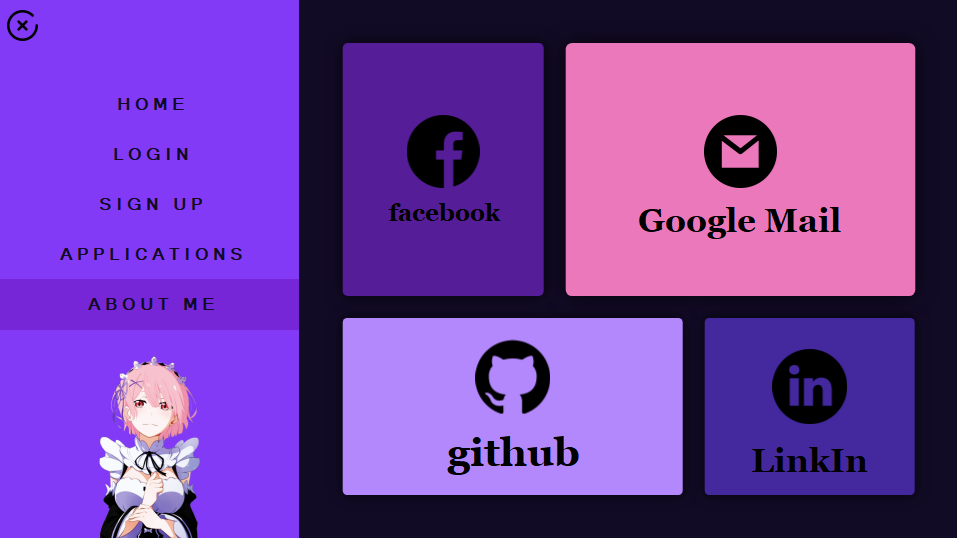
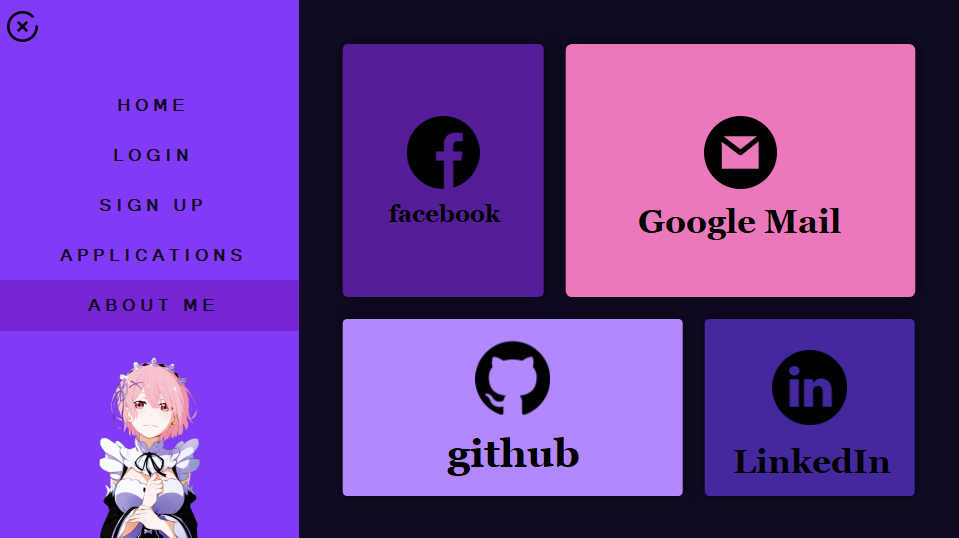
correct spelling mistakes

diff --git a/src/Control/About.py b/src/Control/About.py
@@ -27,7 +27,7 @@ class AboutMe:
         self.gmail = Button(Frame_about,height = 1,relief="flat",cursor="hand2",borderwidth=0, bg = "#eb78bb", text = "Google Mail", activebackground="#eb78bb", font = ("Georgia", 25, "bold"))
         self.gmail.place(x = 325, y = 190)
 
-        self.LinkIn = Button(Frame_about,height = 1,relief="flat",cursor="hand2",borderwidth=0,command=contactLinkIn, bg = "#43289e", text = "LinkIn", activebackground="#43289e", font = ("Georgia", 25, "bold"))
-        self.LinkIn.place(x = 438, y = 430)
+        self.LinkIn = Button(Frame_about,height = 1,relief="flat",cursor="hand2",borderwidth=0,command=contactLinkIn, bg = "#43289e", text = "LinkedIn", activebackground="#43289e", font = ("Georgia", 25, "bold"))
+        self.LinkIn.place(x = 420, y = 430)
 
         

diff --git a/README.md b/README.md
@@ -109,7 +109,7 @@
 
 6. About me 
 
-    ![aboutme](https://user-images.githubusercontent.com/86739367/132989355-32ad861a-9d7d-4acc-88d1-2fb3f3ad9eaa.png)
+    ![aboutme](https://user-images.githubusercontent.com/86739367/133070589-ade6b1c2-188d-4710-87a9-9f87f2f3dfaa.png)
 
 7. Notifications
 
